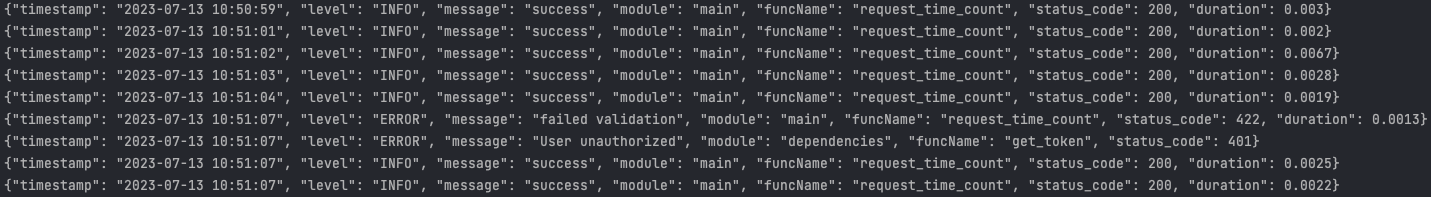
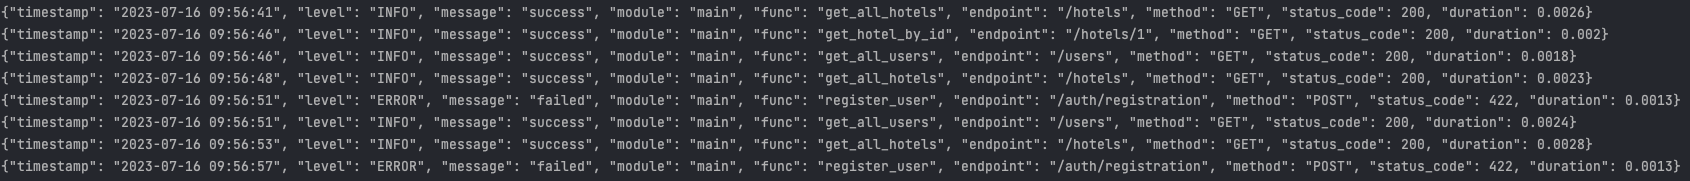
change logger

diff --git a/app/router/room.py b/app/router/room.py
@@ -45,7 +45,6 @@ async def get_rooms_by_time(
     """
     rooms = await RoomDAO.get_rooms_by_time(session, hotel_id, date_from, date_to)
     if len(rooms) == 0:
-        logger.error(NoRoomsOnPeriodErr.detail, extra={"status_code": NoRoomsOnPeriodErr.status_code})
         raise NoRoomsOnPeriodErr
 
     return rooms
@@ -67,7 +66,6 @@ async def add_room(
     """
     room_exist = await RoomDAO.get_one(session, name=room.name)
     if room_exist:
-        logger.error(RoomAlreadyExistsErr.detail, extra={"status_code": RoomAlreadyExistsErr.status_code})
         raise RoomAlreadyExistsErr
 
     return await RoomDAO.add(session, Room.add_id(hotel_id, room))
@@ -88,12 +86,10 @@ async def get_room_by_id(
     """
     hotel = await HotelDAO.get_one(session, id=hotel_id)
     if not hotel:
-        logger.error(HotelNotFoundErr.detail, extra={"status_code": HotelNotFoundErr.status_code})
         raise HotelNotFoundErr
 
     room = await RoomDAO.get_one(session, hotel_id=hotel_id, id=room_id)
     if not room:
-        logger.error(RoomNotFoundErr.detail, extra={"status_code": RoomNotFoundErr.status_code})
         raise RoomNotFoundErr
 
     return room
@@ -112,12 +108,10 @@ async def get_all_rooms_by_hotel(
     """
     hotel = await HotelDAO.get_one(session, id=hotel_id)
     if not hotel:
-        logger.error(HotelNotFoundErr.detail, extra={"status_code": HotelNotFoundErr.status_code})
         raise HotelNotFoundErr
 
     rooms = await RoomDAO.get_all(session, hotel_id=hotel_id)
     if len(rooms) == 0:
-        logger.error(NoRoomsErr.detail, extra={"status_code": NoRoomsErr.status_code})
         raise NoRoomsErr
 
     return rooms
@@ -141,17 +135,14 @@ async def update_room_by_id(
     """
     hotel = await HotelDAO.get_one(session, id=hotel_id)
     if not hotel:
-        logger.error(HotelNotFoundErr.detail, extra={"status_code": HotelNotFoundErr.status_code})
         raise HotelNotFoundErr
 
     # проверка на полностью пустые поля
     if new_fields.is_empty():
-        logger.error(EmptyFieldsToUpdateErr.detail, extra={"status_code": EmptyFieldsToUpdateErr.status_code})
         raise EmptyFieldsToUpdateErr
 
     room = await RoomDAO.get_one(session, id=room_id)
     if not room:
-        logger.error(RoomNotFoundErr.detail, extra={"status_code": RoomNotFoundErr.status_code})
         raise RoomNotFoundErr
 
     # установка новых значений полей
@@ -175,12 +166,10 @@ async def delete_room_by_id(
     """
     hotel = await HotelDAO.get_one(session, id=hotel_id)
     if not hotel:
-        logger.error(HotelNotFoundErr.detail, extra={"status_code": HotelNotFoundErr.status_code})
         raise HotelNotFoundErr
 
     room = await RoomDAO.get_one(session, id=room_id)
     if not room:
-        logger.error(RoomNotFoundErr.detail, extra={"status_code": RoomNotFoundErr.status_code})
         raise RoomNotFoundErr
 
     return await RoomDAO.delete(session, room_id)

diff --git a/app/router/hotel.py b/app/router/hotel.py
@@ -52,16 +52,13 @@ async def get_hotels_by_location(
     """
     await asyncio.sleep(3)
     if date_from > date_to:
-        logger.error(DateFromAfterDateToErr.detail, extra={"status_code": DateFromAfterDateToErr.status_code})
         raise DateFromAfterDateToErr
 
     if (date_to - date_from).days > 31:
-        logger.error(LongPeriodBookingErr.detail, extra={"status_code": LongPeriodBookingErr.status_code})
         raise LongPeriodBookingErr
 
     hotels = await HotelDAO.get_hotels_by_location(session, location, date_from, date_to)
     if len(hotels) == 0:
-        logger.error(HotelNotFoundErr.detail, extra={"status_code": HotelNotFoundErr.status_code})
         raise HotelNotFoundErr
 
     return hotels
@@ -81,7 +78,6 @@ async def add_hotel(
     """
     hotel_exist: Hotel = await HotelDAO.get_one(session, name=hotel.name)
     if hotel_exist:
-        logger.error(HotelAlreadyExistsErr.detail, extra={"status_code": HotelAlreadyExistsErr.status_code})
         raise HotelAlreadyExistsErr
 
     return await HotelDAO.add(session, hotel.dict())
@@ -100,7 +96,6 @@ async def get_hotel_by_id(
     """
     hotel = await HotelDAO.get_one(session, id=hotel_id)
     if not hotel:
-        logger.error(HotelNotFoundErr.detail, extra={"status_code": HotelNotFoundErr.status_code})
         raise HotelNotFoundErr
 
     return hotel
@@ -117,7 +112,6 @@ async def get_all_hotels(
     """
     hotels = await HotelDAO.get_all(session)
     if len(hotels) == 0:
-        logger.error(NoHotelsErr.detail, extra={"status_code": NoHotelsErr.status_code})
         raise NoHotelsErr
 
     return hotels
@@ -139,12 +133,10 @@ async def update_hotel_by_id(
     """
     # проверка на полностью пустые поля
     if new_fields.is_empty():
-        logger.error(EmptyFieldsToUpdateErr.detail, extra={"status_code": EmptyFieldsToUpdateErr.status_code})
         raise EmptyFieldsToUpdateErr
 
     hotel = await HotelDAO.get_one(session, id=hotel_id)
     if not hotel:
-        logger.error(HotelNotFoundErr.detail, extra={"status_code": HotelNotFoundErr.status_code})
         raise HotelNotFoundErr
 
     # установка новых значений полей
@@ -166,7 +158,6 @@ async def delete_hotel_by_id(
     """
     hotel = await HotelDAO.get_one(session, id=hotel_id)
     if not hotel:
-        logger.error(HotelNotFoundErr.detail, extra={"status_code": HotelNotFoundErr.status_code})
         raise HotelNotFoundErr
 
     return await HotelDAO.delete(session, hotel_id)

diff --git a/app/router/booking.py b/app/router/booking.py
@@ -48,7 +48,6 @@ async def add_booking(
     room_hotel_info = await BookingDAO.get_free_rooms(session, room_id, date_from, date_to)
     # проверка на свободные комнаты
     if room_hotel_info[0]["free_rooms"] <= 0:
-        logger.error(NoAvailableRoomsErr.detail, extra={"status_code": NoAvailableRoomsErr.status_code})
         raise NoAvailableRoomsErr
     booking = await BookingDAO.add(session, user.id, room_id, date_from, date_to)
     # парсинг ответа алхимии в словарь для celery
@@ -80,7 +79,6 @@ async def get_booking_by_id(
     """
     booking = await BookingDAO.get_one(session, id=booking_id, user_id=user.id)
     if not booking:
-        logger.error(BookingNotFoundErr.detail, extra={"status_code": BookingNotFoundErr.status_code})
         raise BookingNotFoundErr
 
     return booking
@@ -100,7 +98,6 @@ async def get_all_bookings_by_user(
     """
     bookings = await BookingDAO.get_all(session, user_id=user.id)
     if len(bookings) == 0:
-        logger.error(NoBookingsErr.detail, extra={"status_code": NoBookingsErr.status_code})
         raise NoBookingsErr
 
     return bookings
@@ -124,12 +121,10 @@ async def update_booking_by_id(
     """
     # проверка на полностью пустые поля
     if new_fields.is_empty():
-        logger.error(EmptyFieldsToUpdateErr.detail, extra={"status_code": EmptyFieldsToUpdateErr.status_code})
         raise EmptyFieldsToUpdateErr
 
     booking = await BookingDAO.get_one(session, id=booking_id, user_id=user.id)
     if not booking:
-        logger.error(BookingNotFoundErr.detail, extra={"status_code": BookingNotFoundErr.status_code})
         raise BookingNotFoundErr
 
     # установка новых значений полей
@@ -143,7 +138,6 @@ async def update_booking_by_id(
     )
     # проверка на свободные комнаты
     if free_rooms <= 0:
-        logger.error(NoAvailableRoomsErr.detail, extra={"status_code": NoAvailableRoomsErr.status_code})
         raise NoAvailableRoomsErr
 
     return await BookingDAO.update(session, updated_fields, booking_id)
@@ -165,7 +159,6 @@ async def delete_booking_by_id(
     """
     booking = await BookingDAO.get_one(session, user_id=user.id, id=booking_id)
     if not booking:
-        logger.error(BookingNotFoundErr.detail, extra={"status_code": BookingNotFoundErr.status_code})
         raise BookingNotFoundErr
 
     return await BookingDAO.delete(session, booking_id)

diff --git a/app/router/user.py b/app/router/user.py
@@ -31,7 +31,6 @@ async def get_user_by_id(
     """
     user = await UserDAO.get_one(session, id=user_id)
     if not user:
-        logger.error(UserNotFoundErr.detail, extra={"status_code": UserNotFoundErr.status_code})
         raise UserNotFoundErr
 
     return user
@@ -48,7 +47,6 @@ async def get_all_users(
     """
     users = await UserDAO.get_all(session)
     if len(users) == 0:
-        logger.error(NoUsersErr.detail, extra={"status_code": NoUsersErr.status_code})
         raise NoUsersErr
 
     return users
@@ -70,12 +68,10 @@ async def update_user_by_id(
     """
     # проверка на полностью пустые поля
     if new_fields.is_empty():
-        logger.error(EmptyFieldsToUpdateErr.detail, extra={"status_code": EmptyFieldsToUpdateErr.status_code})
         raise EmptyFieldsToUpdateErr
 
     user = await UserDAO.get_one(session, id=user_id)
     if not user:
-        logger.error(UserNotFoundErr.detail, extra={"status_code": UserNotFoundErr.status_code})
         raise UserNotFoundErr
 
     # установка новых значений полей
@@ -97,7 +93,6 @@ async def delete_user_by_id(
     """
     user = await UserDAO.get_one(session, id=user_id)
     if not user:
-        logger.error(UserNotFoundErr.detail, extra={"status_code": UserNotFoundErr.status_code})
         raise UserNotFoundErr
 
     return await UserDAO.delete(session, user_id)

diff --git a/main.py b/main.py
@@ -56,26 +56,35 @@ app.add_middleware(
 
 
 @app.middleware("http")
-async def request_time_count(request: Request, next_func):
+async def request_time_count(request: Request, call_next):
     """
     Middleware для запросов.
     :param request: тело запроса
-    :param next_func: хендлер
+    :param call_next: хендлер
     """
     start_time = time.time()
-    response = await next_func(request)
+    response = await call_next(request)
     process_time = time.time() - start_time
 
+    func = request.scope.get("route", None)
+    if func is not None:
+        func = func.name
+
+    URL = request.url.path
+    if URL == "/metrics":
+        return response
+
     extra = {
+        "func": func,
+        "endpoint": URL,
+        "method": request.method,
         "status_code": response.status_code,
         "duration": round(process_time, 4),
     }
-    # валидация json
-    if response.status_code == 422:
-        logger.error(msg="failed validation", extra=extra)
-        return response
+
     # failed ответы
-    if response.status_code in [400, 401, 403, 500]:
+    if response.status_code in [400, 401, 403, 422, 500]:
+        logger.error(msg="failed", extra=extra)
         return response
     else:
         # success ответы

diff --git a/app/router/auth.py b/app/router/auth.py
@@ -5,7 +5,6 @@ from sqlalchemy.ext.asyncio import AsyncSession
 from app.auth.auth import create_JWT_token, get_password_hash, verify_user
 from app.auth.dependencies import auth_user
 from app.errors import IncorrectEmailOrPasswordErr, UserAlreadyExistsErr
-from app.logger import logger
 from app.models.user import User
 from app.schemas.user import UserLoginRequest, UserRequest, UserResponse
 from app.storage.database import get_session
@@ -31,7 +30,6 @@ async def register_user(
     """
     exist_user: User = await UserDAO.get_one(session, email=user.email)
     if exist_user:
-        logger.error(UserAlreadyExistsErr.detail, extra={"status_code": UserAlreadyExistsErr.status_code})
         raise UserAlreadyExistsErr
 
     hashed_password: str = get_password_hash(user.password)
@@ -53,7 +51,6 @@ async def login_user(
     """
     user = await verify_user(session, user.email, user.password)
     if not user:
-        logger.error(IncorrectEmailOrPasswordErr.detail, extra={"status_code": IncorrectEmailOrPasswordErr.status_code})
         raise IncorrectEmailOrPasswordErr
 
     token = create_JWT_token({"sub": str(user.id)})

diff --git a/app/logger.py b/app/logger.py
@@ -24,9 +24,15 @@ class CustomJsonFormatter(jsonlogger.JsonFormatter):
 logger = logging.getLogger()
 # куда писать логи (консоль)
 logHandler = logging.StreamHandler()
-formatter = CustomJsonFormatter("%(timestamp)s %(level)s %(message)s %(module)s %(funcName)s")
+formatter = CustomJsonFormatter("%(timestamp)s %(level)s %(message)s %(module)s")
+# formatter = CustomJsonFormatter("%(timestamp)s %(level)s %(message)s %(module)s %(funcName)s")
 
 logHandler.setFormatter(formatter)
 logger.addHandler(logHandler)
 # установка уровня логгирования
 logger.setLevel(cfg.LOG_LEVEL)
+
+#
+# class LogResp:
+#
+#

diff --git a/README.md b/README.md
@@ -6,10 +6,14 @@
 ## Overview
 
 Booking hotels pet-project service.
+Service allows:
+
+- book a hotel room
+- notify the customer about the booking by Email
+- manage booking orders and other entities using Admin Panel
 
 ## Content
 
-- [Description](#description)
 - [Start](#start)
 - [Usage](#usage)
 - [CI](#ci)
@@ -27,13 +31,6 @@ Booking hotels pet-project service.
     - [Admin-panel](#admin-panel)
     - [Monitoring](#monitoring)
 
-### Description
-
-Service allows:
-
-- book a hotel room
-- notify the customer about the booking by Email
-- manage booking orders and other entities using Admin Panel
 
 ### Start
 
@@ -158,7 +155,7 @@ Logger can be configured by log-levels by env file:
 - ERROR
 - CRITICAL
 
-Logs are output to the console.
+Logs are output to console.
 <p align="left">
     <img src="assets/logger.png" width="700">
 </p>
